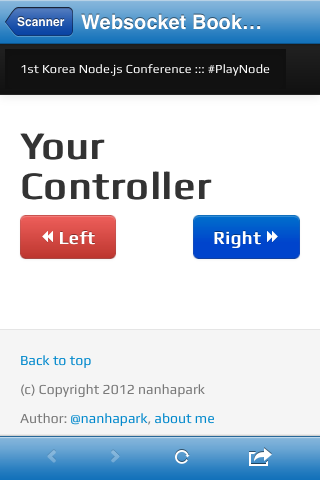
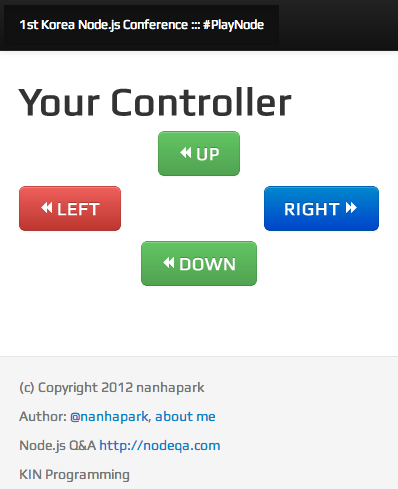
revealjs update, english

diff --git a/public/stylesheets/docs.css b/public/stylesheets/docs.css
@@ -1017,3 +1017,7 @@ form.bs-docs-example {
 
 img { border-radius: 10px }
 .footer-logo { margin: 20px 0 }
+.playnode {
+  margin: 12px 25px 0 5px;
+  width: 115px;
+}
